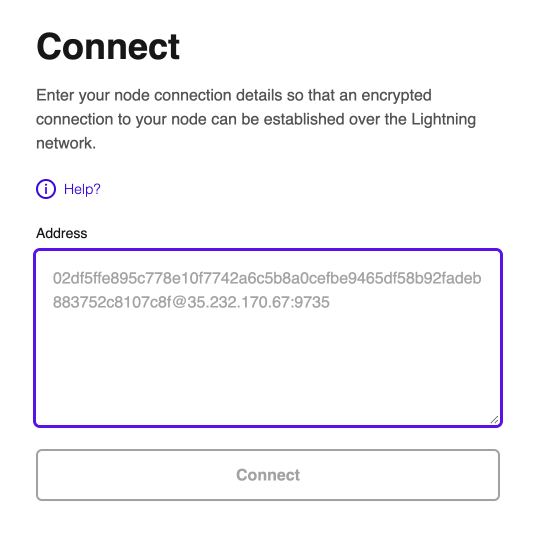
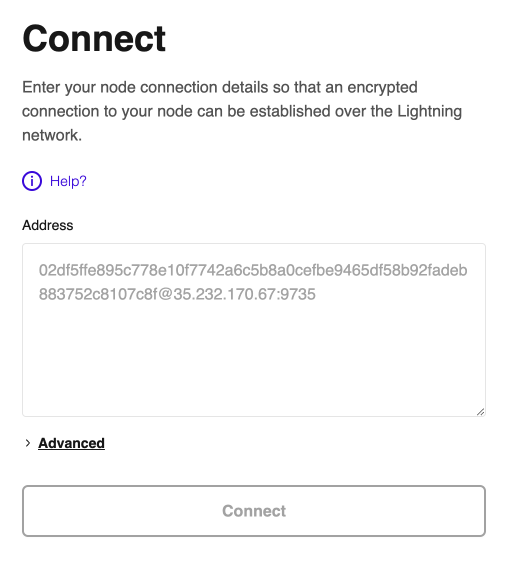
Add connection options

Changed region(s): [[0.0312, 0.1498, 0.9357, 0.809], [0.0312, 0.839, 0.9669, 0.9588], [0.0312, 0.03, 0.3431, 0.1199]]

diff --git a/docs/testing-locally.md b/docs/testing-locally.md
@@ -1,0 +1,29 @@
+# Testing Locally
+
+To try the app out you can create a local regtest lightning network using [Polar](https://lightningpolar.com/) and connect Clams to CoreLn nodes.
+
+1. Download [Polar](https://lightningpolar.com/)
+2. Create a test network with a least one CoreLN node running > v0.12.0 and start the network
+3. Open up the Docker dashboard and find the running container. Open up the docker compose file in your text editor:
+
+   <img width="986" alt="Screen Shot 2023-01-31 at 7 24 30 am" src="https://user-images.githubusercontent.com/29873495/215587105-595e3b5b-601a-4b21-8d22-1047449051d5.png">
+
+4. Find the name of the CoreLN node and add `--experimental-websocket-port=7272` to the startup command and expose the port:
+
+   <img width="581" alt="Screen Shot 2023-01-31 at 7 26 18 am" src="https://user-images.githubusercontent.com/29873495/215587662-72af2672-0d01-402f-83fa-ef892c4b4a41.png">
+
+5. Save the file and restart the Polar network
+6. Run the Clams app locally:
+7. `git clone https://github.com/clams-tech/browser-app.git`
+8. `cd browser-app`
+9. `yarn`
+10. `yarn dev-http`
+11. Enter the connection address using the public key of the node which is accessible from the "info" tab as well as `localhost:7272`.
+12. Click the "Advanced" dropdown -> select direct connection -> select `ws`:
+
+    <img width="495" alt="Screen Shot 2023-01-31 at 7 33 35 am" src="https://user-images.githubusercontent.com/29873495/215588838-79bacb66-5929-41ca-ac8e-ae8d29cc1e91.png">
+
+13. Click "Connect" and you should successfully connect to the local node.
+14. To create an auth rune, click the "Actions" tab -> click "Launch which will launch a terminal window for the lightning CLI.
+15. Run `lightning-cli commando-rune` to create a rune and paste it in to the app.
+16. You have connected and authenticated your locally running node!

diff --git a/docs/connection.md b/docs/connection.md
@@ -21,7 +21,16 @@ You can find your address by looking up your node on a Lightning explorer such a
 
 Alternatively you can call the [getinfo](https://lightning.readthedocs.io/lightning-getinfo.7.html) method from the lightning cli and derive the address from the `id` and `address` parameters from the returned object.
 
-Once you have inputted your address, click the connect button to initiate a connection to your node. If connection is successful, the app will navigate to the [Authentication page](https://www.notion.so/Authentication-c40fb1abd68c463aa763788ecb64c191).
+Once you have inputted your address, click the connect button to initiate a connection to your node. If connection is successful, the app will navigate to the [Authentication page](/authentication).
+
+## Advanced Options
+
+Clicking "Advance Options" will show a dropdown to enter options for connecting to a node directly without using a WebSocket proxy, or for setting a custom WebSocket proxy URL to use instead of the Clams proxy.
+
+<img alt="Advanced Settings" src="../assets/advanced-connection.png">
+<figcaption style='font-size: small; margin: -1em 0 2em 0;'>Advanced connection setting</figcaption>
+
+For detailed instructions for connecting directly to a node, see the [Testing Locally](/testing-locally) section.
 
 ## How it Works
 
